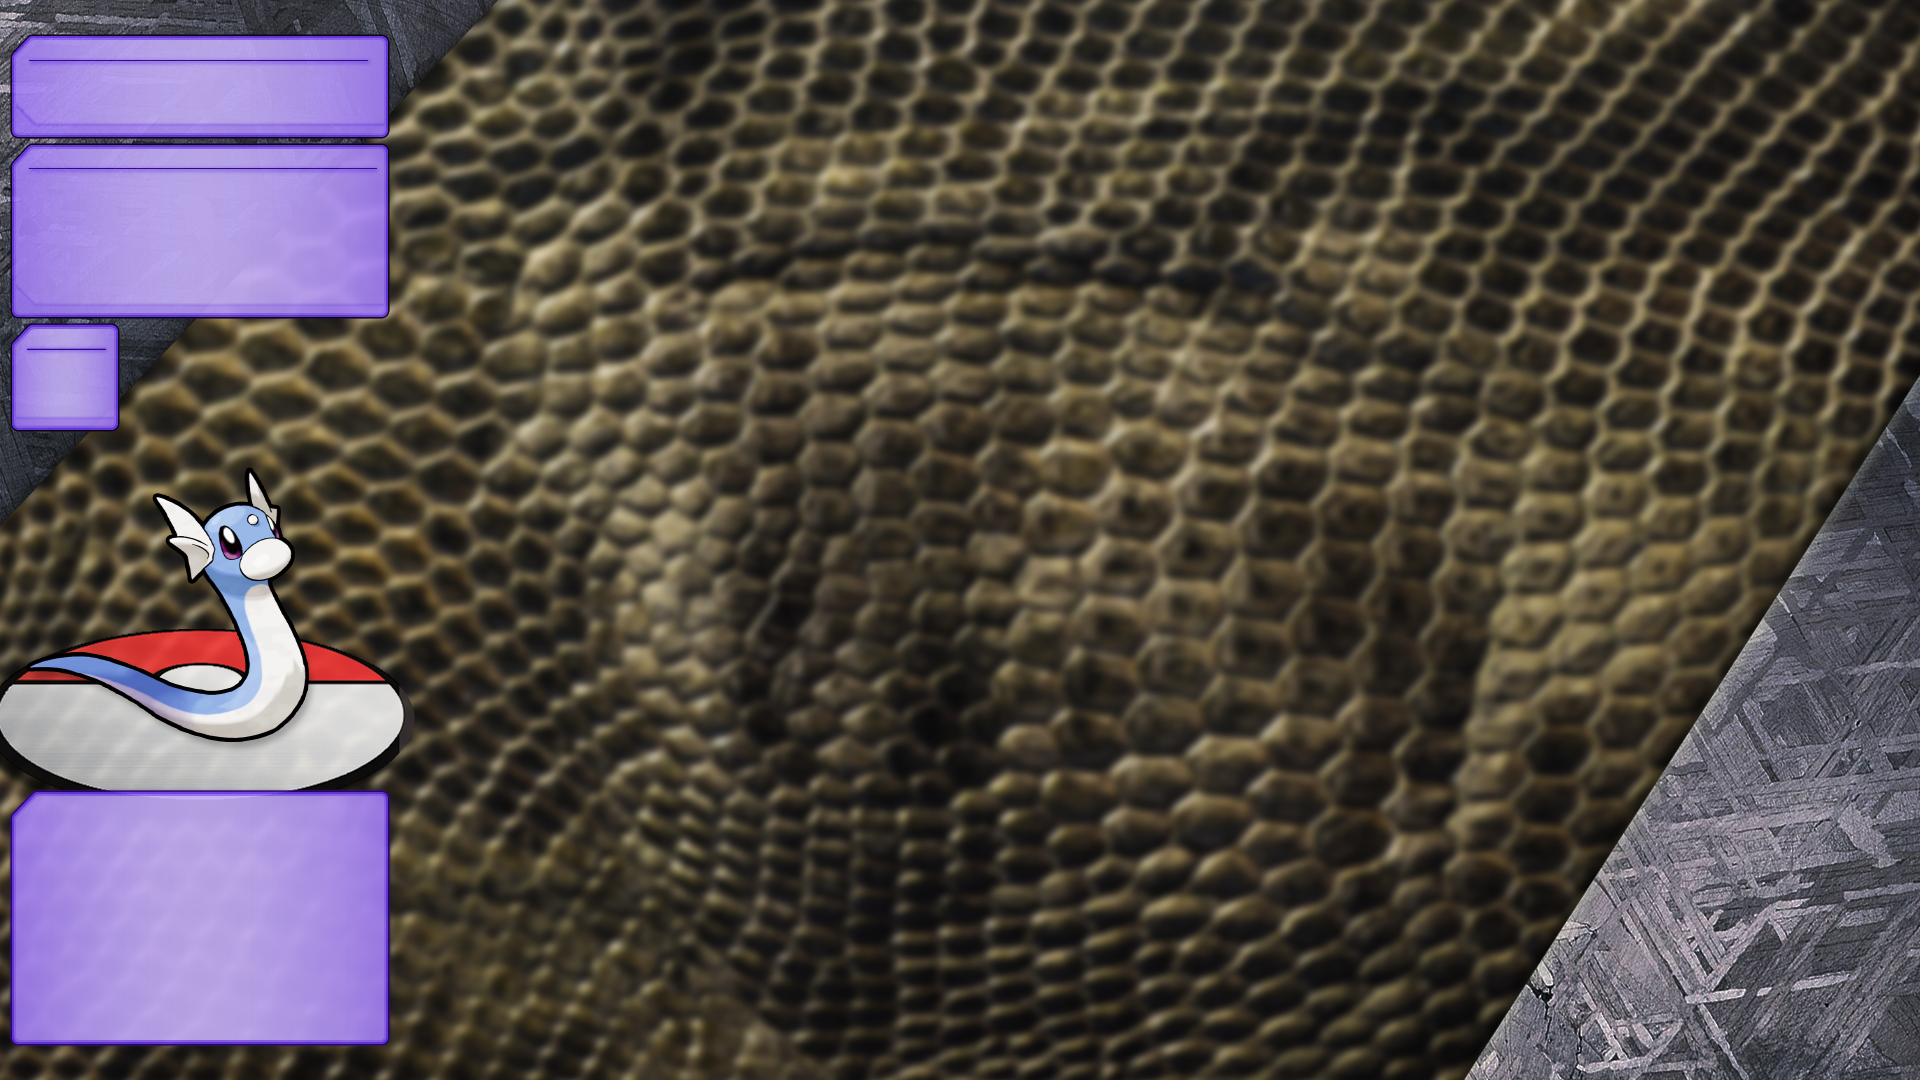
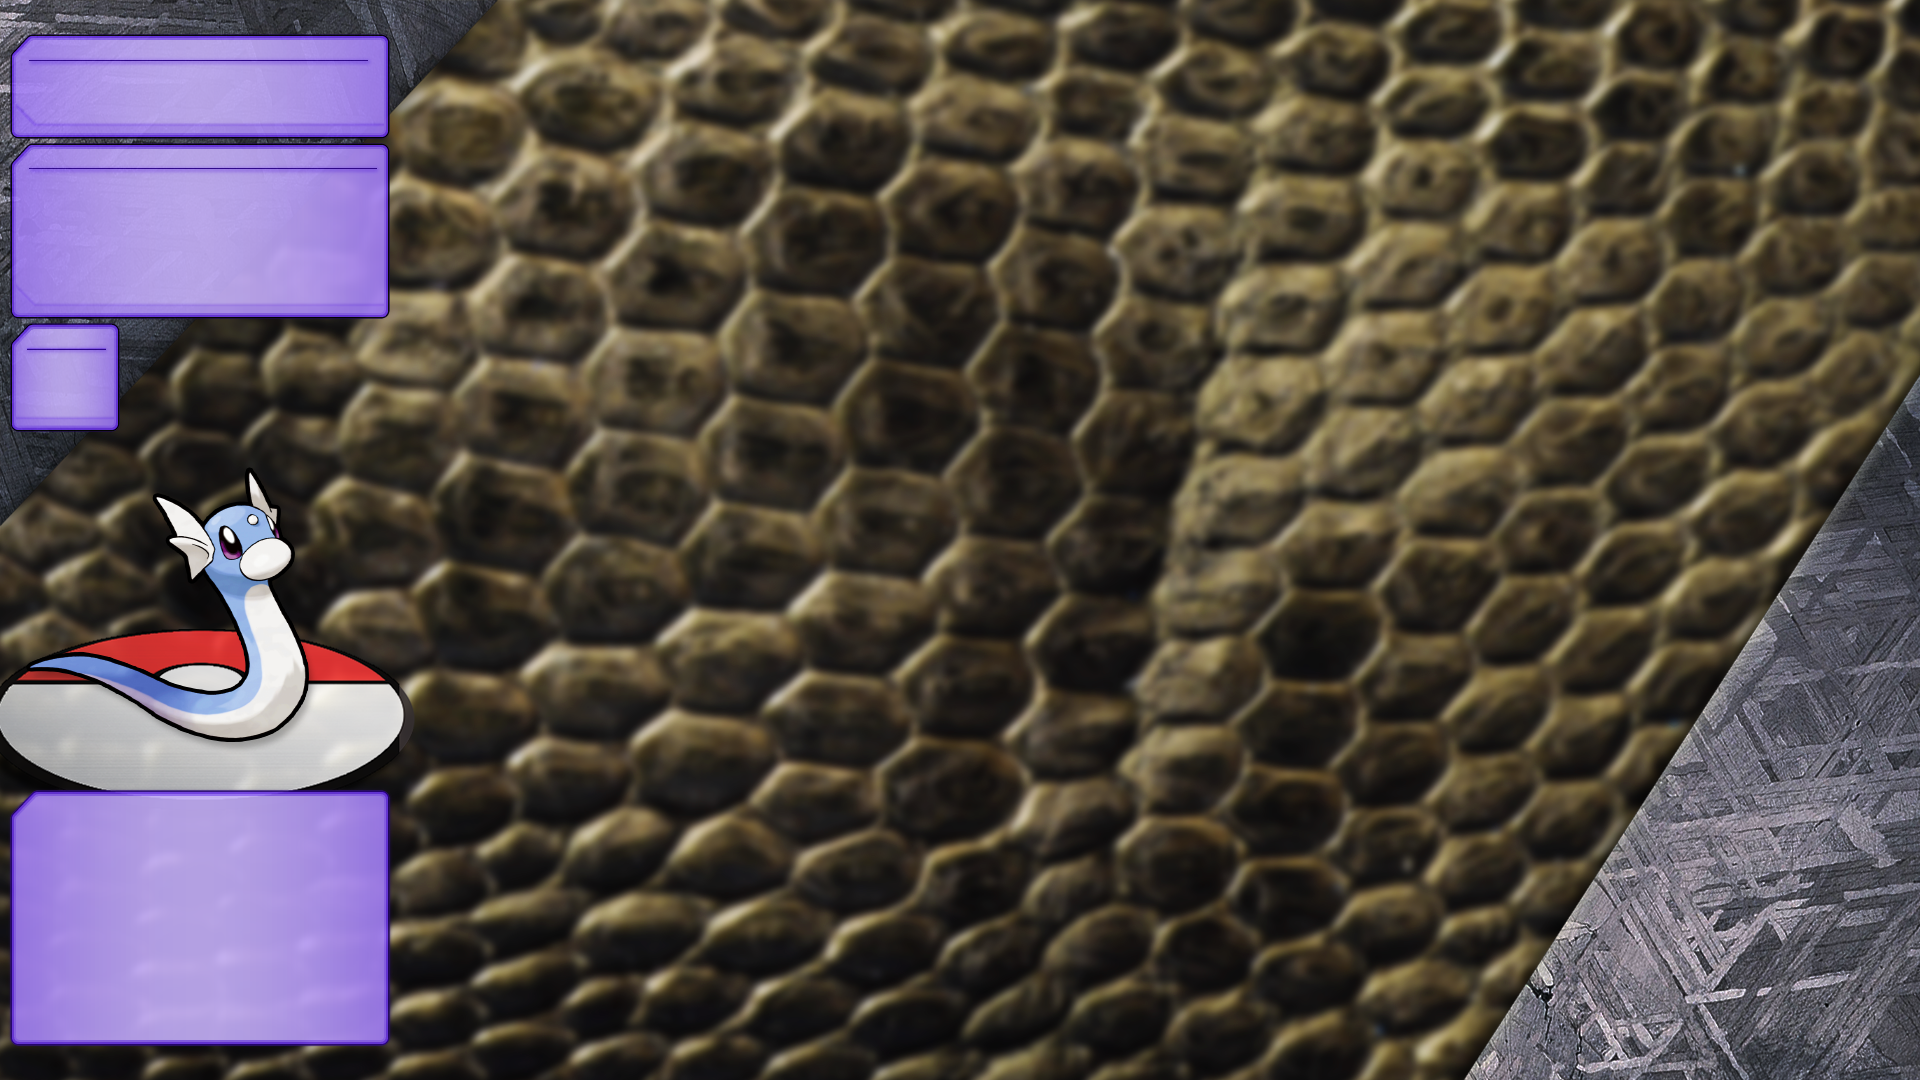
dratini overlay

diff --git a/scripts/vue.js b/scripts/vue.js
@@ -6,8 +6,8 @@ const app = Vue.createApp({
             mapper: null,
 
             // USER CONFIG --------------------------------------------------------------------------------------//
-            starter:         22, //select starter
-            starterName:     "Fearow", //string name
+            starter:         147, //select starter
+            starterName:     "Dratini", //string name
             overlayName:     "", // add "-yellow" or "-red" here based on the game being played
             secondPlaythrough: false, //used to mitigate luck on second playthroughs
             pick:            true, //turns on the ability to pick your starter
@@ -82,11 +82,11 @@ const app = Vue.createApp({
 
             //VARIABLES THAT STYLE ELEMENTS
             statLabelOpacityValue: .1,
-            modColor: false,
-            modRaise: "rgb(0, 85, 11)",
-            modLower: "rgb(114, 0, 0)",
+            modColor: true,
+            modRaise: "rgb(0, 0, 0)",
+            modLower: "rgb(0, 0, 0)",
             modDefault: "rgb(0, 0, 0)",
-            ppColor: true,
+            ppColor: false,
             ppHigh: "rgb(0, 0, 0)",
             ppMid: "rgb(114, 0, 0)",
             // ppMid: "rgb(121, 72, 0)",

diff --git a/style-yellow.css b/style-yellow.css
@@ -538,6 +538,7 @@ body {
     z-index: 3;
     opacity: .72;
     text-align: left;
+    
     font-family: osb;
     font-weight: 500
 }
